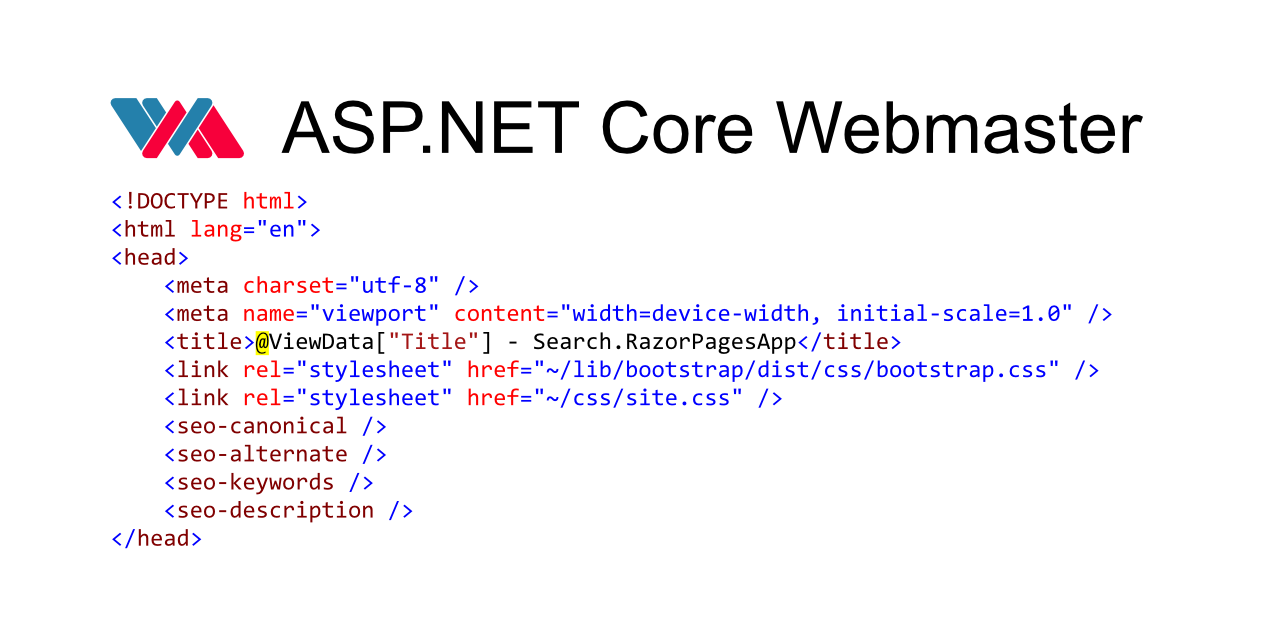
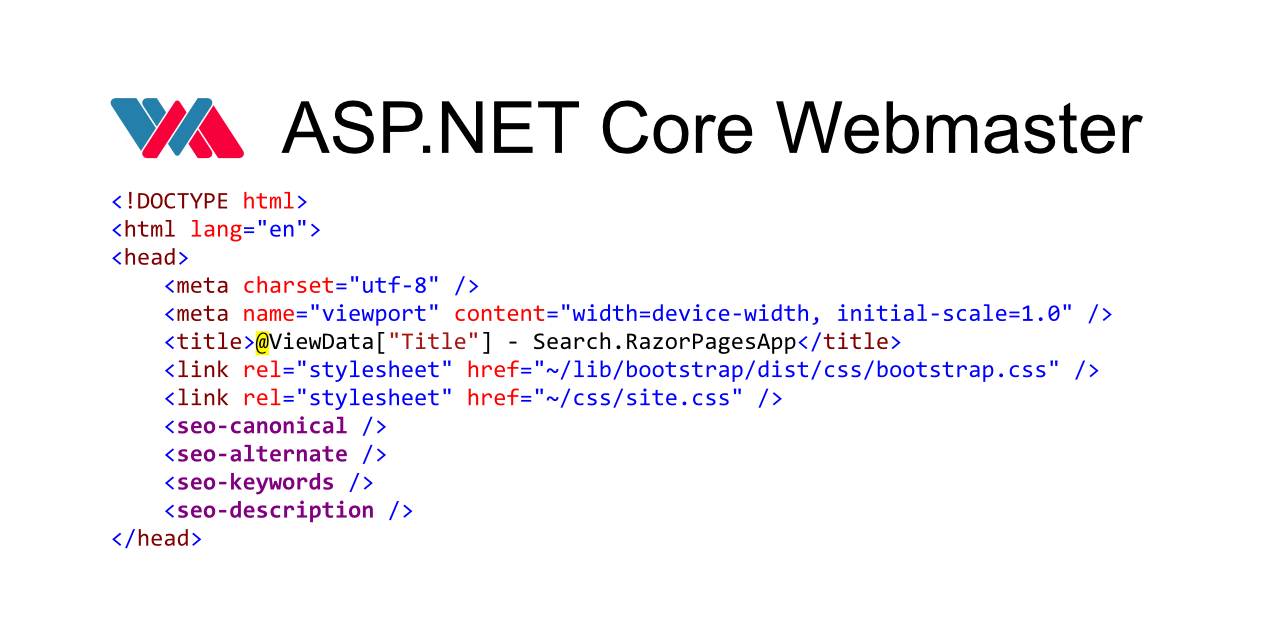
add canonical link concept

Changed region(s): [[0.125, 0.6562, 0.3125, 0.8125]]

diff --git a/src/Webmaster.TagHelpers/src/CanonicalTagHelper.cs b/src/Webmaster.TagHelpers/src/CanonicalTagHelper.cs
@@ -1,4 +1,9 @@
-using Microsoft.AspNetCore.Razor.TagHelpers;
+using Microsoft.AspNetCore.Hosting;
+using Microsoft.AspNetCore.Http;
+using Microsoft.AspNetCore.Mvc.Rendering;
+using Microsoft.AspNetCore.Mvc.TagHelpers;
+using Microsoft.AspNetCore.Mvc.ViewFeatures;
+using Microsoft.AspNetCore.Razor.TagHelpers;
 using System;
 using System.Collections.Generic;
 using System.Text;
@@ -8,9 +13,42 @@ namespace Wangkanai.Webmaster.TagHelpers
     [HtmlTargetElement(CanonicalAttributeName)]
     public class CanonicalTagHelper : TagHelper
     {
-        private const string CanonicalAttributeName = "seo-canonical";
+        private const string CanonicalAttributeName = "seo-canonical";        
         private const string HrefAttributeName = "href";
         private const string RelAttributeName = "rel";
+
+
+        public CanonicalTagHelper() { }
+
+        public override int Order => -1000;
+
+        [ViewContext]
+        protected ViewContext ViewContext { get; }
+
+        public string Site { get; set; }
+        public string Path { get; set; }
+
+        public override void Process(TagHelperContext context, TagHelperOutput output)
+        {
+            if (context == null)
+                throw new ArgumentNullException(nameof(context));
+            if (output == null)
+                throw new ArgumentNullException(nameof(output));
+
+            output.TagName = "link";
+            // output.Attributes.Clear();
+
+            output.Attributes.Add(RelAttributeName, "canonical");
+
+            if (string.IsNullOrEmpty(Path))
+            {
+                Path = ViewContext.HttpContext.Request.Path;
+            }
+
+            output.Attributes.Add(HrefAttributeName, Site + Path);
+
+
+        }
     }
 
     public class MetaKeywordTagHelper : TagHelper { }
